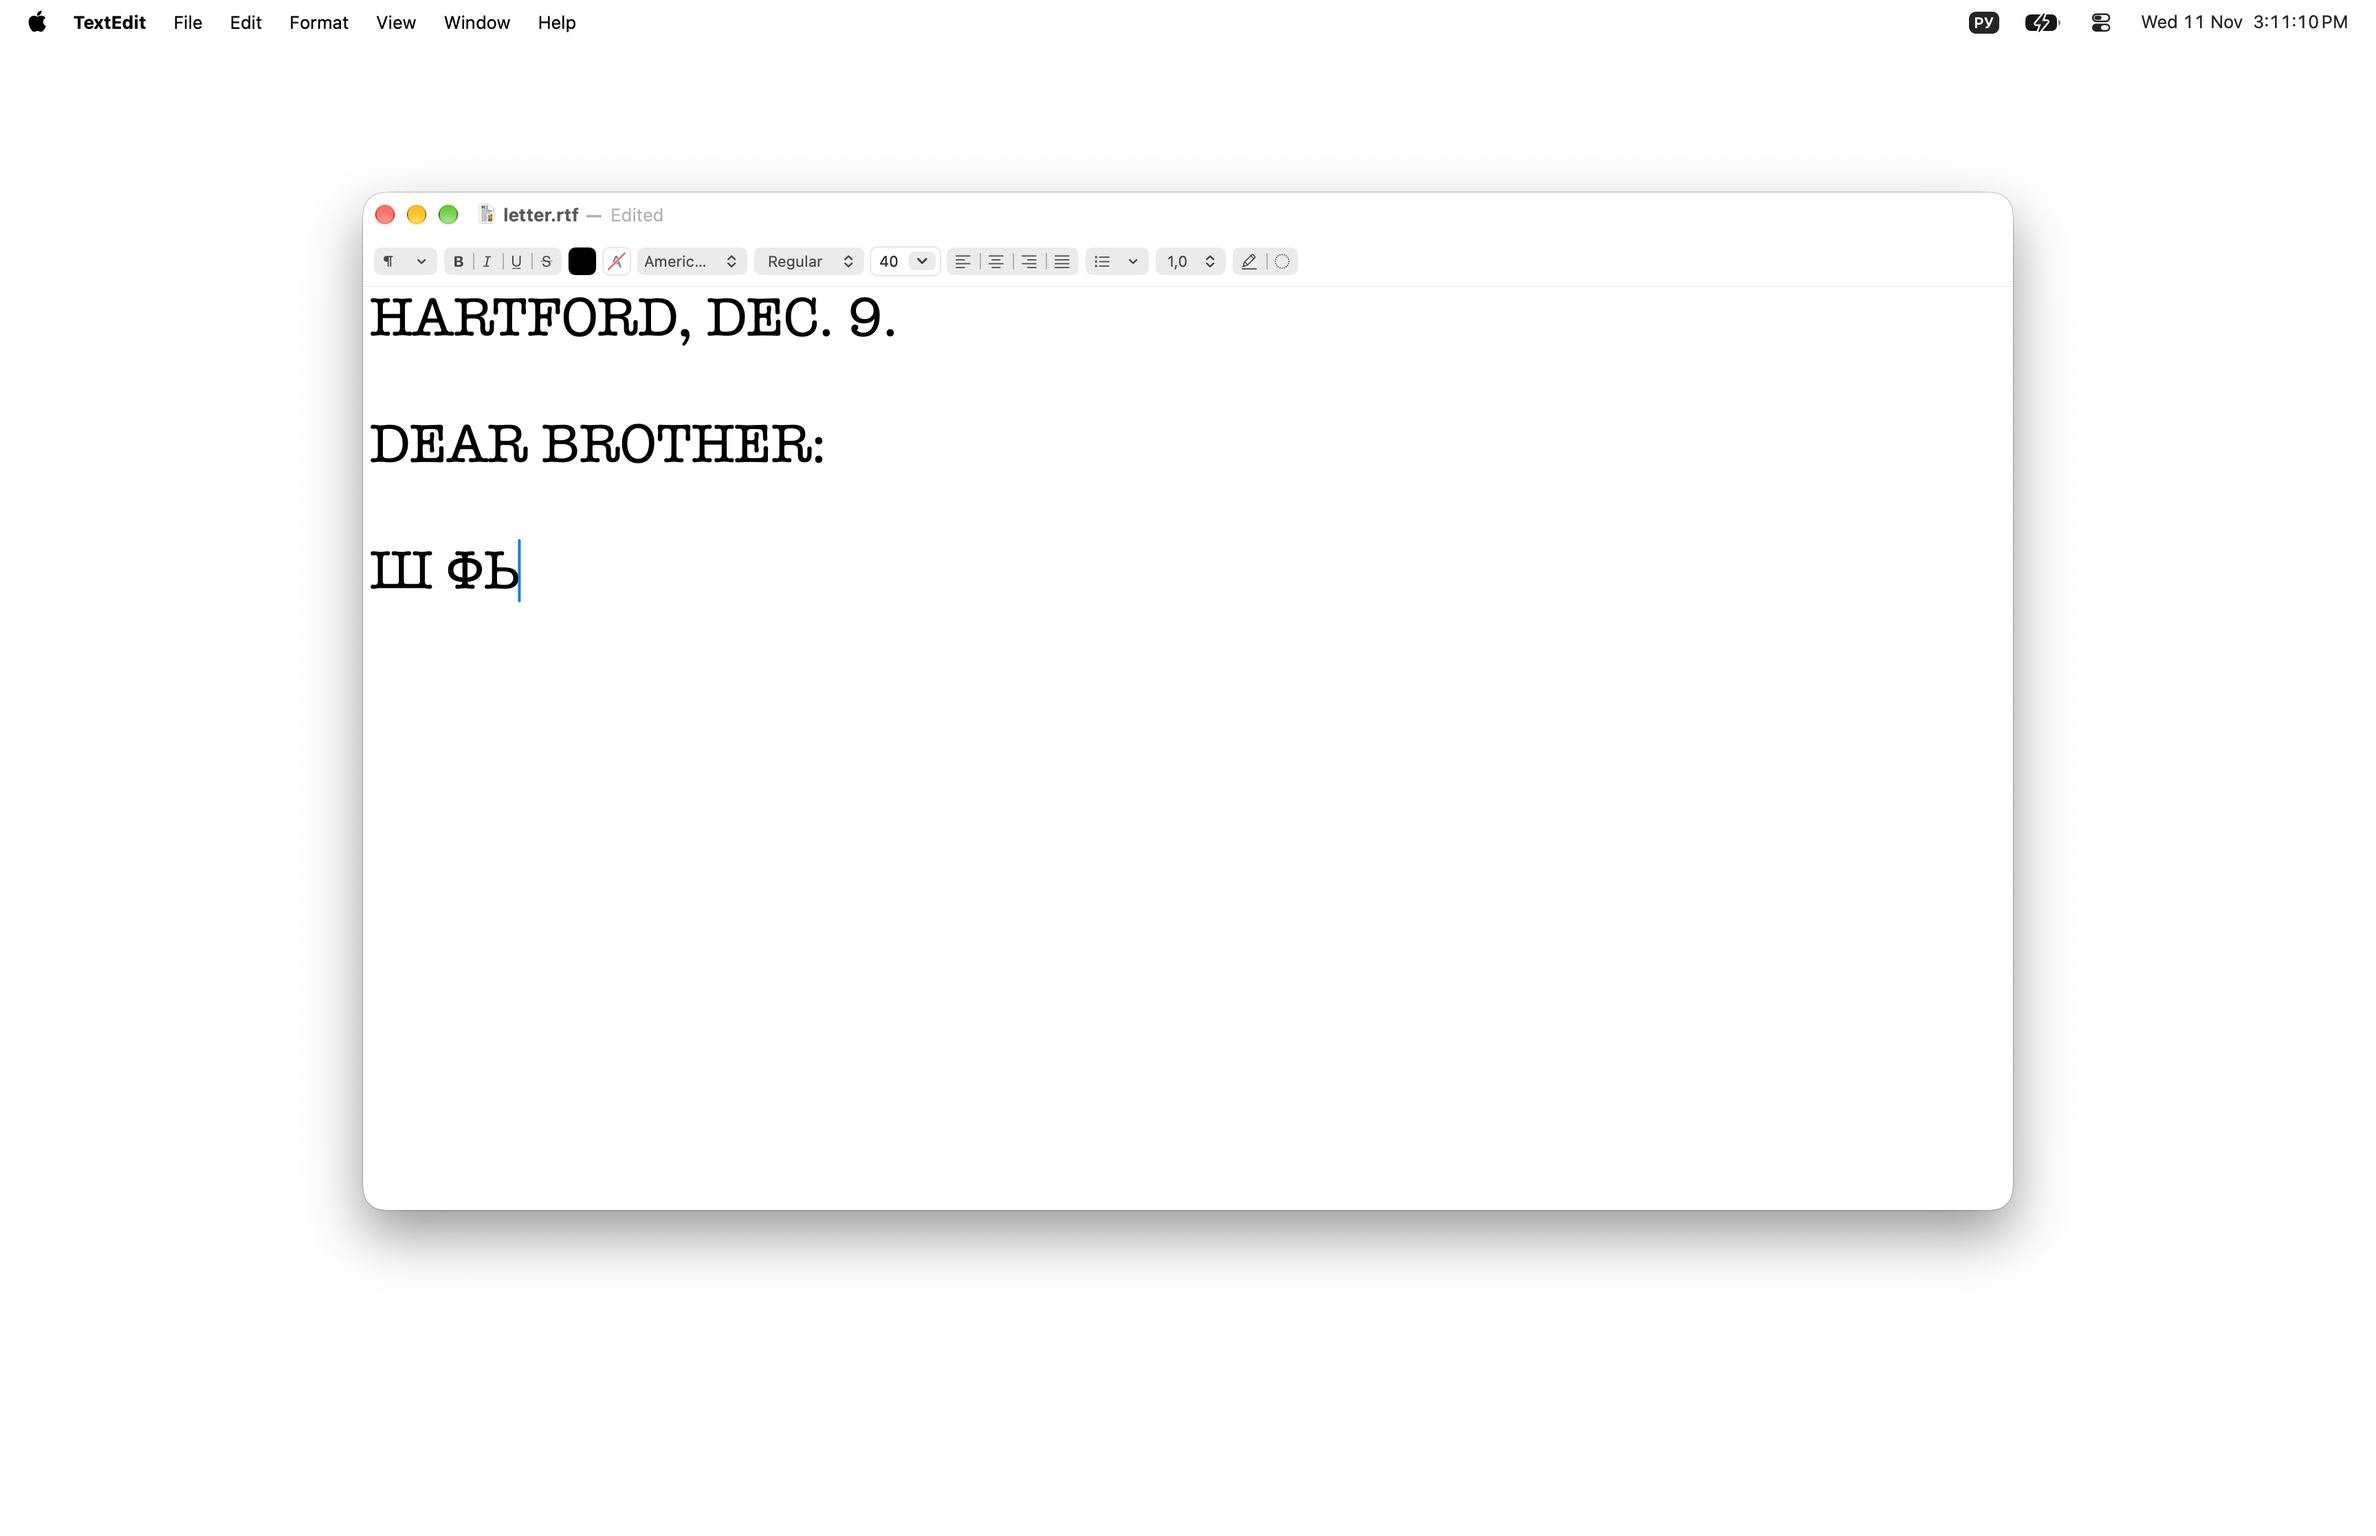
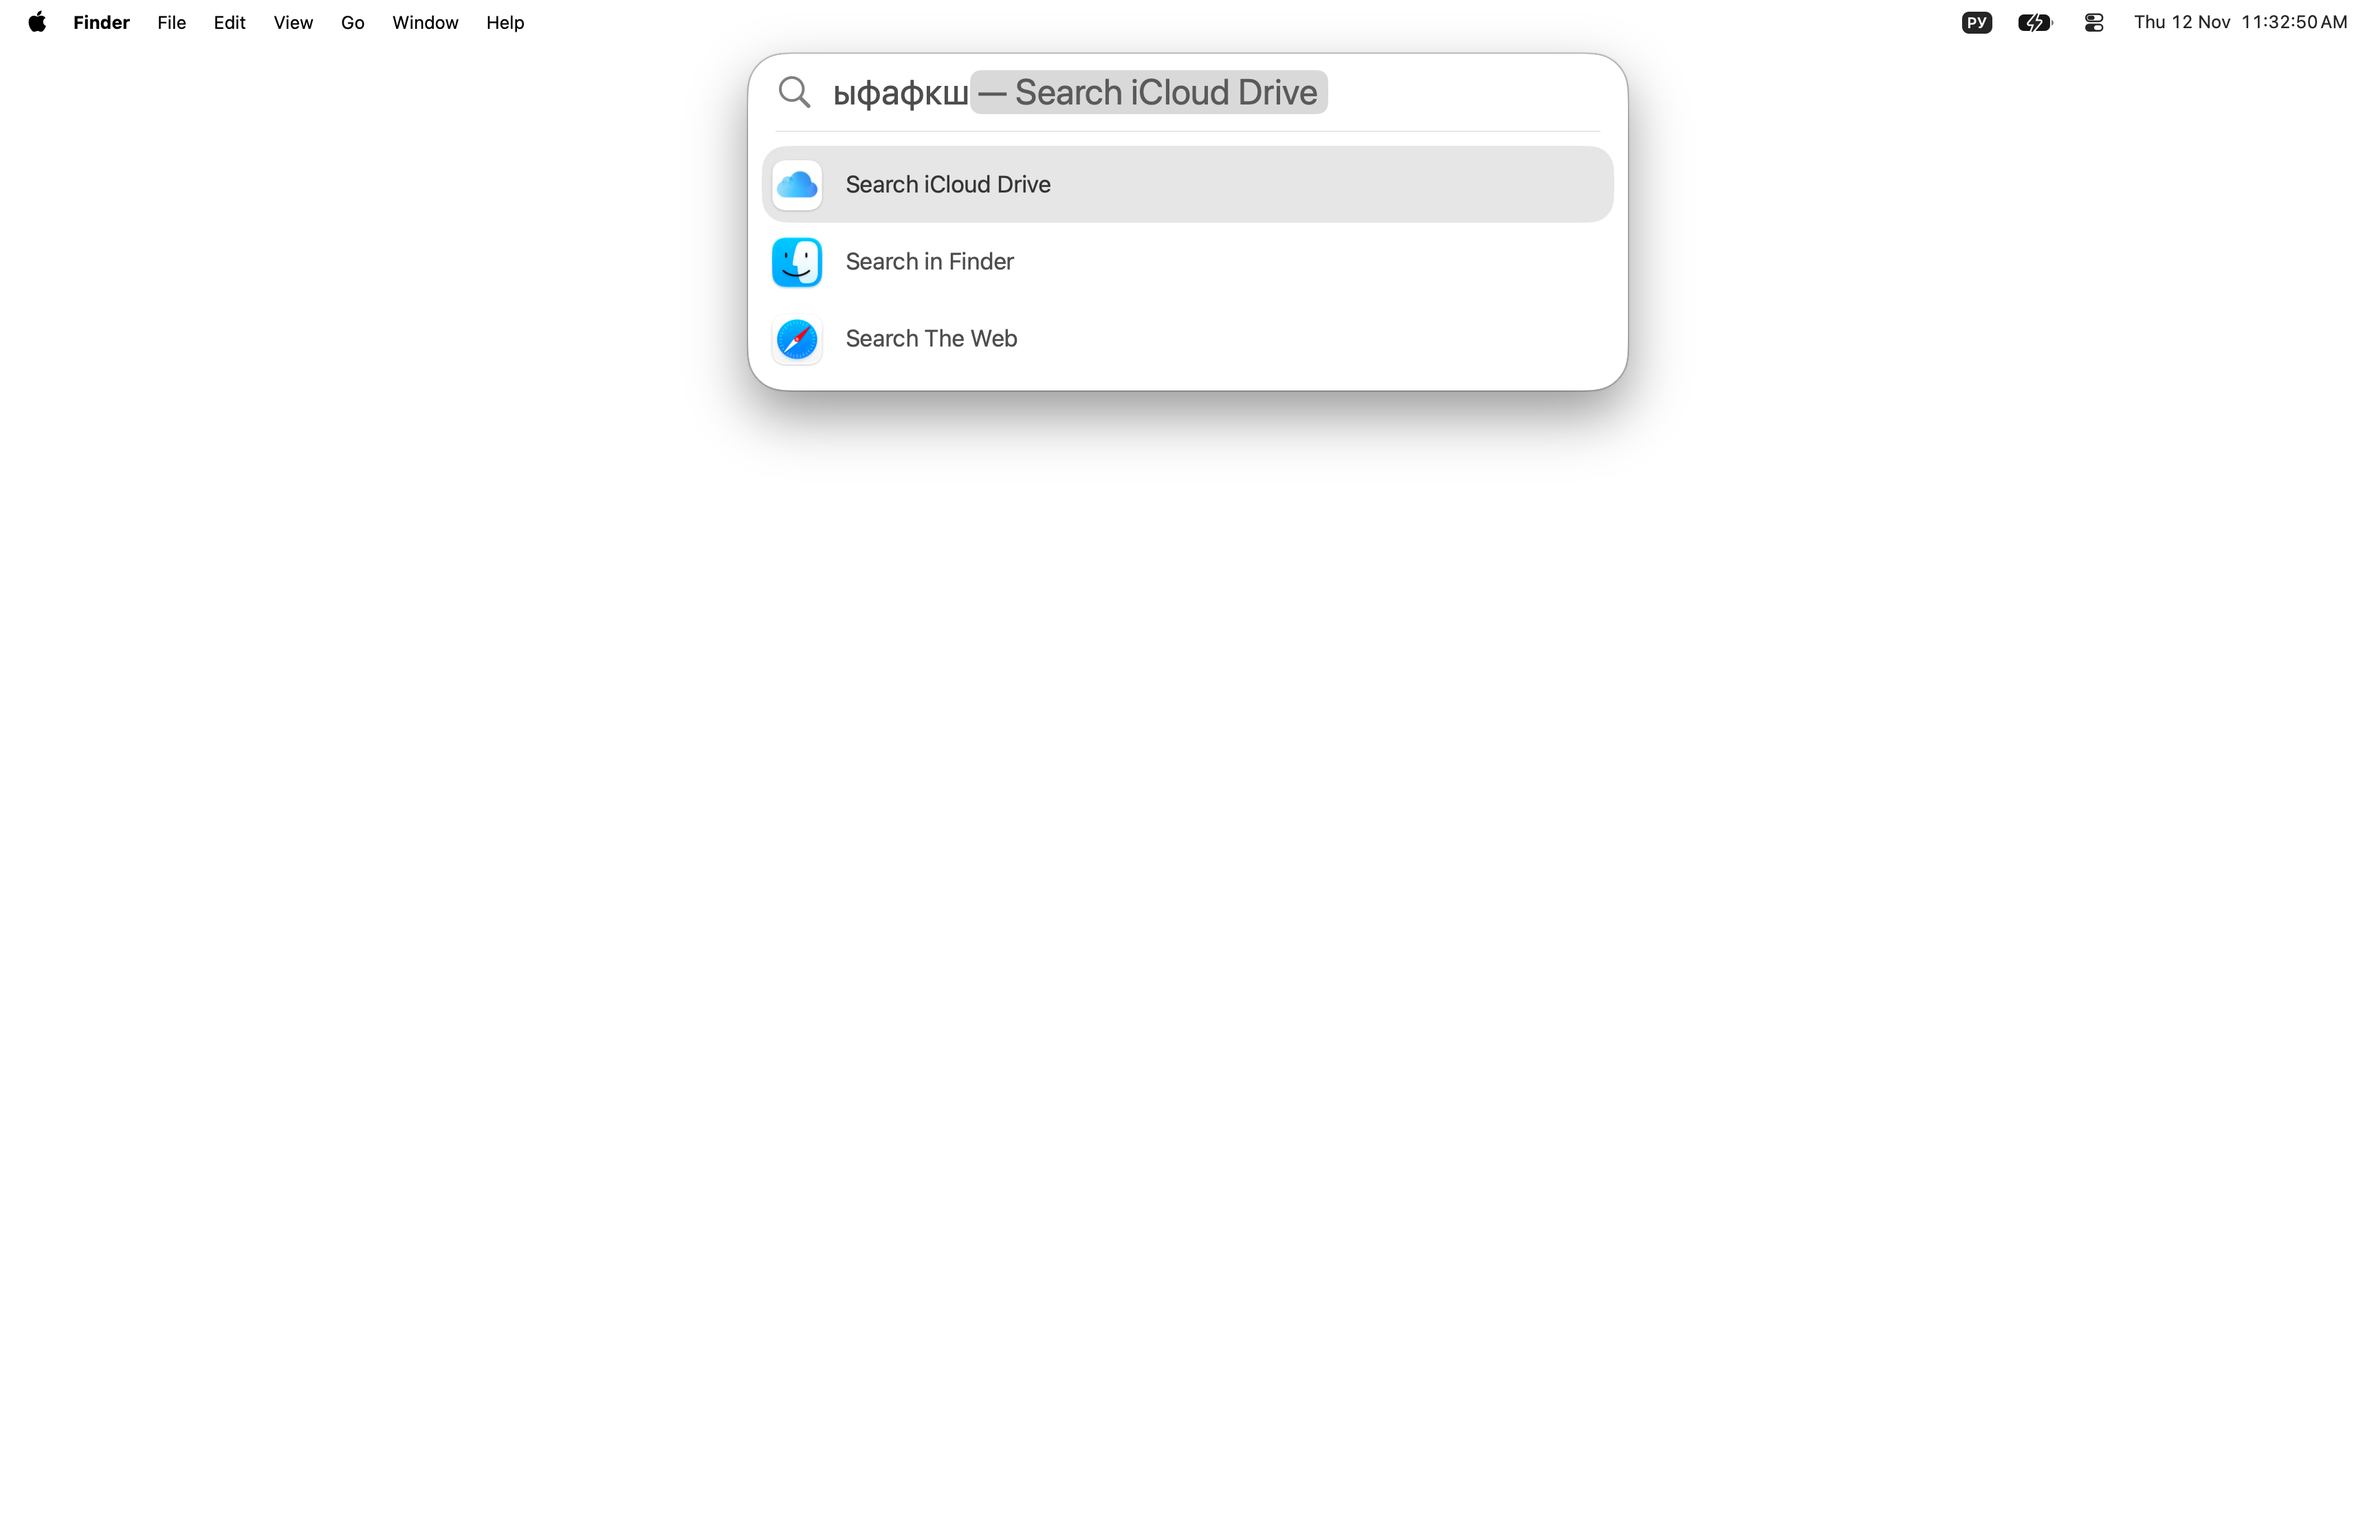
README: Retyper in Spotlight, before and after the Space, dark and light

Changed region(s): [[0.125, 0.0309, 0.875, 0.8339], [0.0312, 0.0, 0.2188, 0.0309], [0.8125, 0.0, 0.9688, 0.0309]]

diff --git a/README.md b/README.md
@@ -6,9 +6,13 @@ Free, open source app for macOS. A word typed in the wrong keyboard layout, such
 
 Apple silicon, macOS 13 or later. Interface in English, Ukrainian and Russian. Signed with a Developer ID and notarized by Apple.
 
-<picture><source media="(prefers-color-scheme: dark)" srcset="docs/scene.webp"><img src="docs/scene-light.webp" alt="Retyper in use: TextEdit with Mark Twain's first typewritten letter of 1874, typed with the Russian layout on; the line reads Ш ФЬ for I AM, and the menu bar shows the Russian input source"></picture>
+<picture><source media="(prefers-color-scheme: dark)" srcset="docs/scene.webp"><img src="docs/scene-light.webp" alt="Spotlight with ыфафкш typed while the Russian layout is on; the menu bar shows the Russian input source"></picture>
 
-Typed with the Russian layout still on: “Ш ФЬ” is the keys of “I AM”. At the next Space, Retyper retypes both words and switches to ABC. The text is Mark Twain’s first typewritten letter, 1874; his own typos “T TO” and “F FANGLED” stay as they are.
+Typed in Spotlight with the Russian layout still on: “ыфафкш” is the keys of “safari”, so nothing is found.
+
+<picture><source media="(prefers-color-scheme: dark)" srcset="docs/scene-after.webp"><img src="docs/scene-after-light.webp" alt="The same Spotlight after the Space: the word reads safari, Safari is the top result, and the menu bar shows ABC"></picture>
+
+At the Space, Retyper retypes the word as “safari” and switches the layout to ABC; Spotlight finds Safari.
 
 ## Install
 
